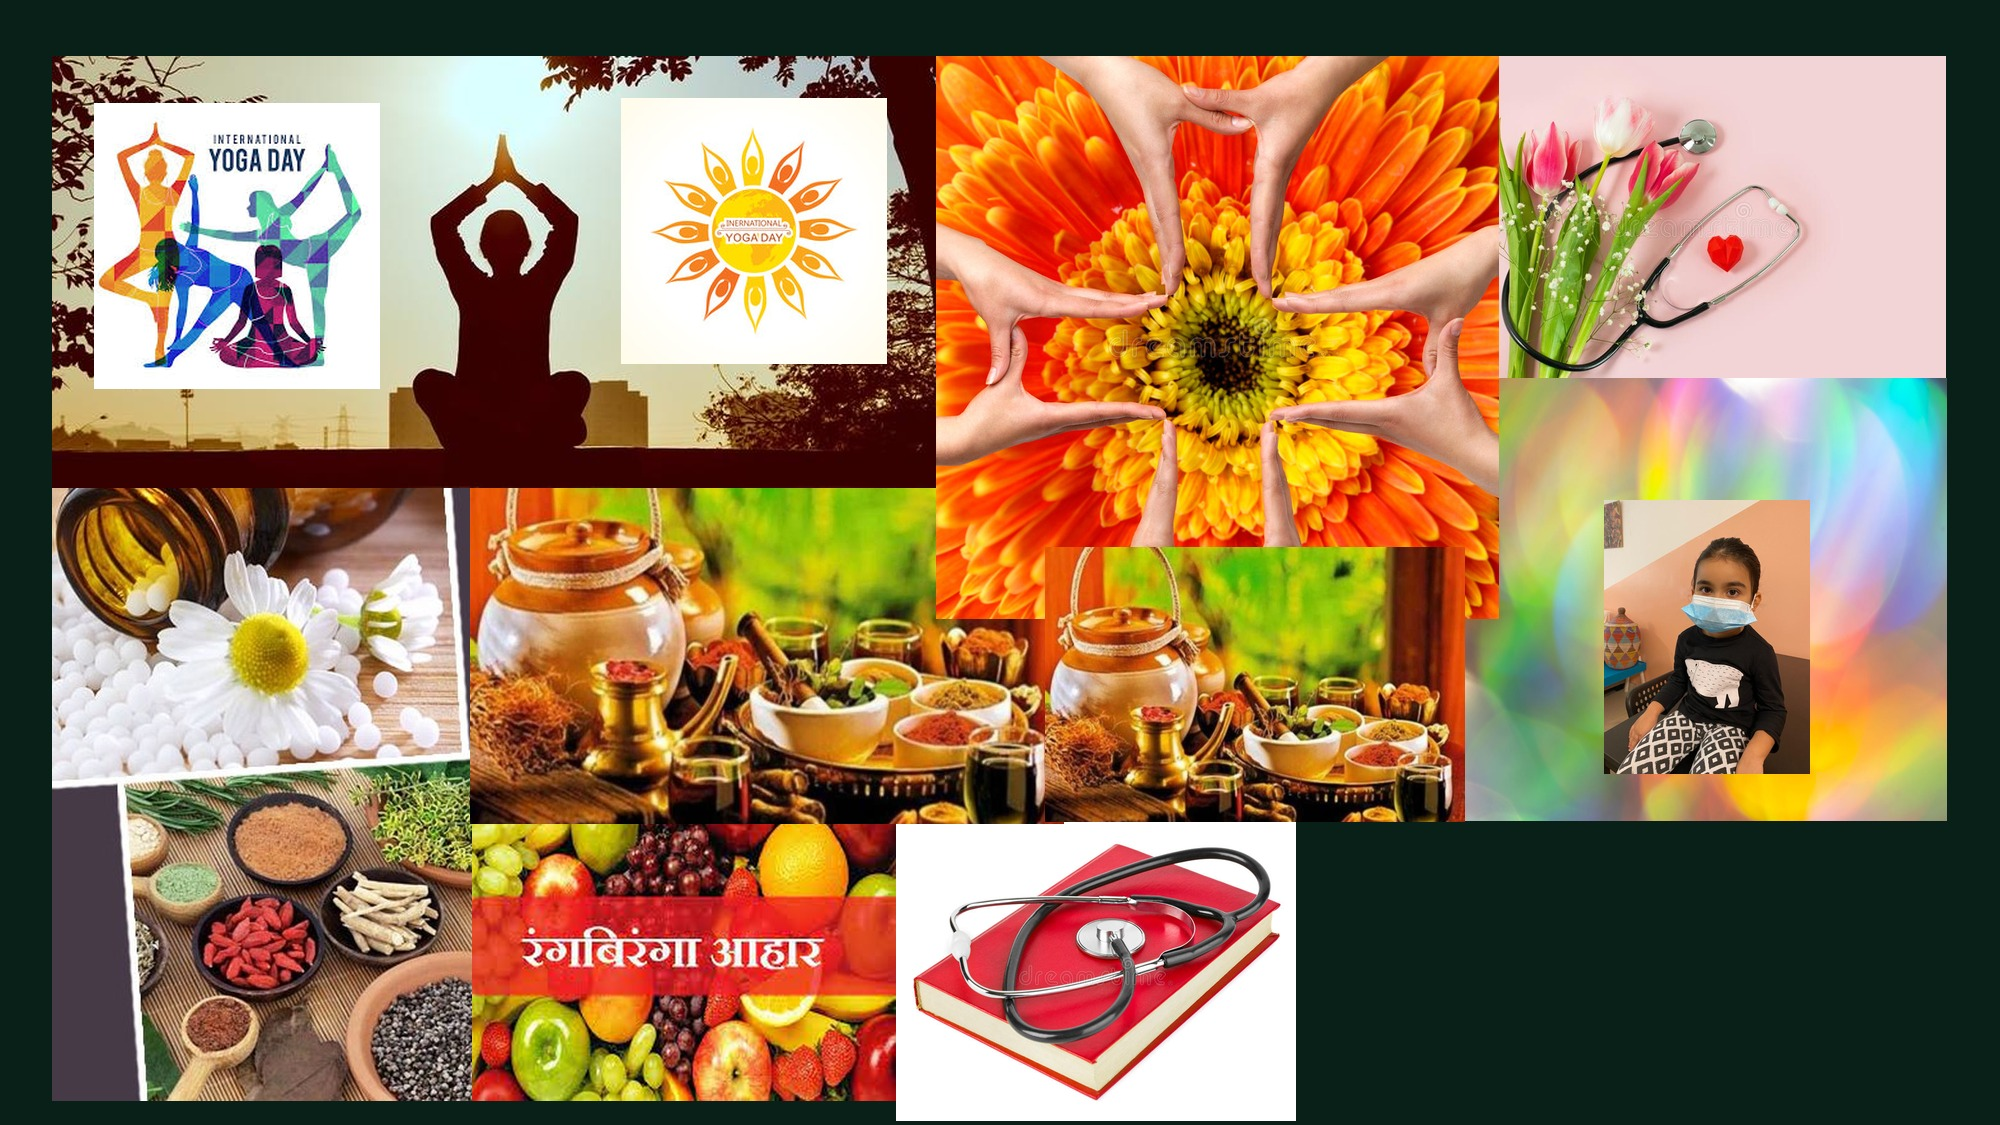
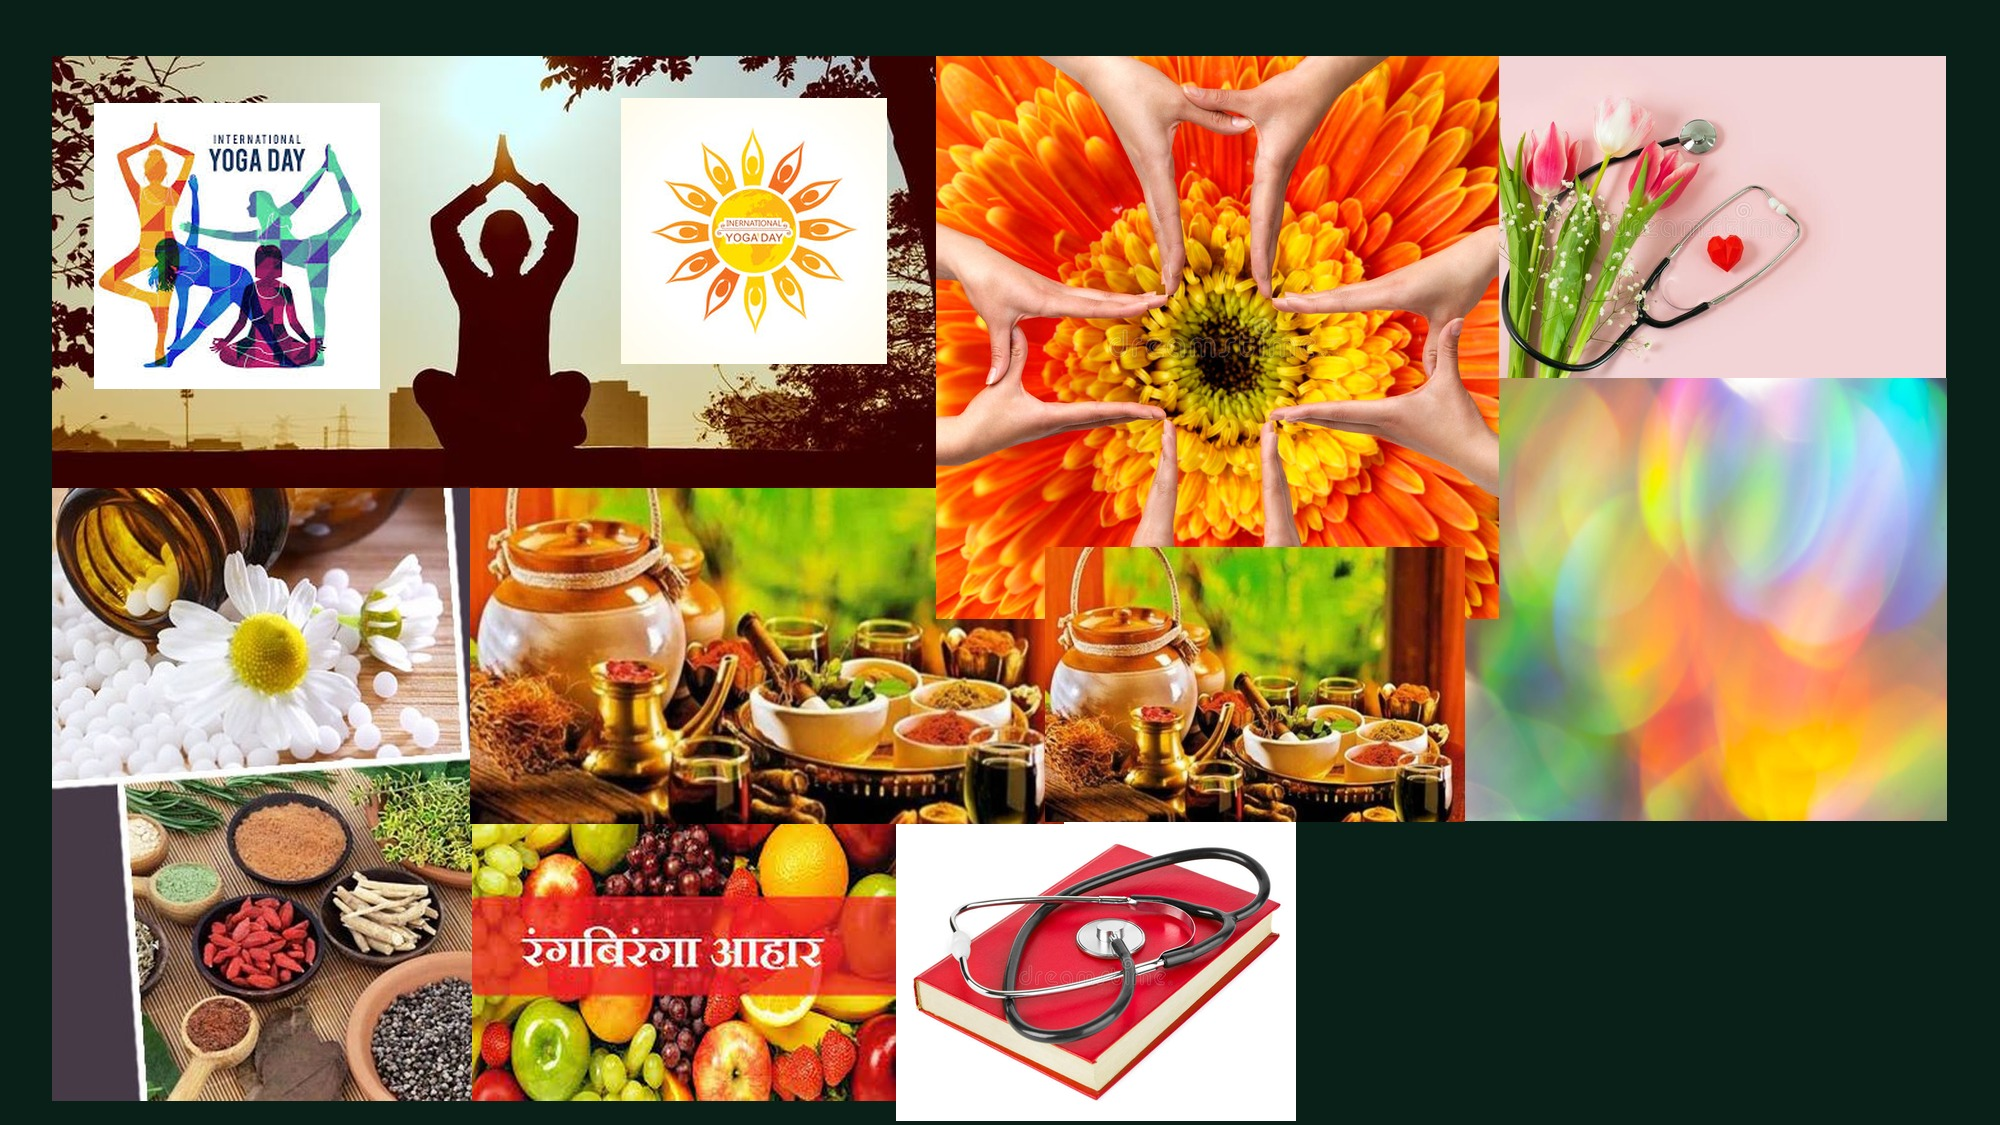
Remove child mask photo per Gitanjali ji request, replace with stethoscope-book

Changed region(s): [[0.775, 0.4356, 0.93, 0.7156]]

diff --git a/site/posts/jane-doctor-jubani.html b/site/posts/jane-doctor-jubani.html
@@ -525,7 +525,7 @@ footer{background:var(--ink)}
         <p class="hf-desc">महामारी से लड़ाई — अनुभव, सबक और उम्मीद की कहानी</p>
         <div class="hf-cta">पढ़ें →</div>
       </div>
-      <img src="../images/thumb-corona-sangram.jpg" alt="कोरोना संग्राम" class="hf-thumb" loading="lazy">
+      <img src="../images/health-stethoscope-book.jpg" alt="कोरोना संग्राम" class="hf-thumb" loading="lazy">
     </a>
     <div class="health-grid">
       <a href="../pdfs/Alternative-Medicine.pdf" onclick="openPDF('Alternative Medicine', '../pdfs/Alternative-Medicine.pdf'); return false;"  class="health-card"  rel="noopener">
